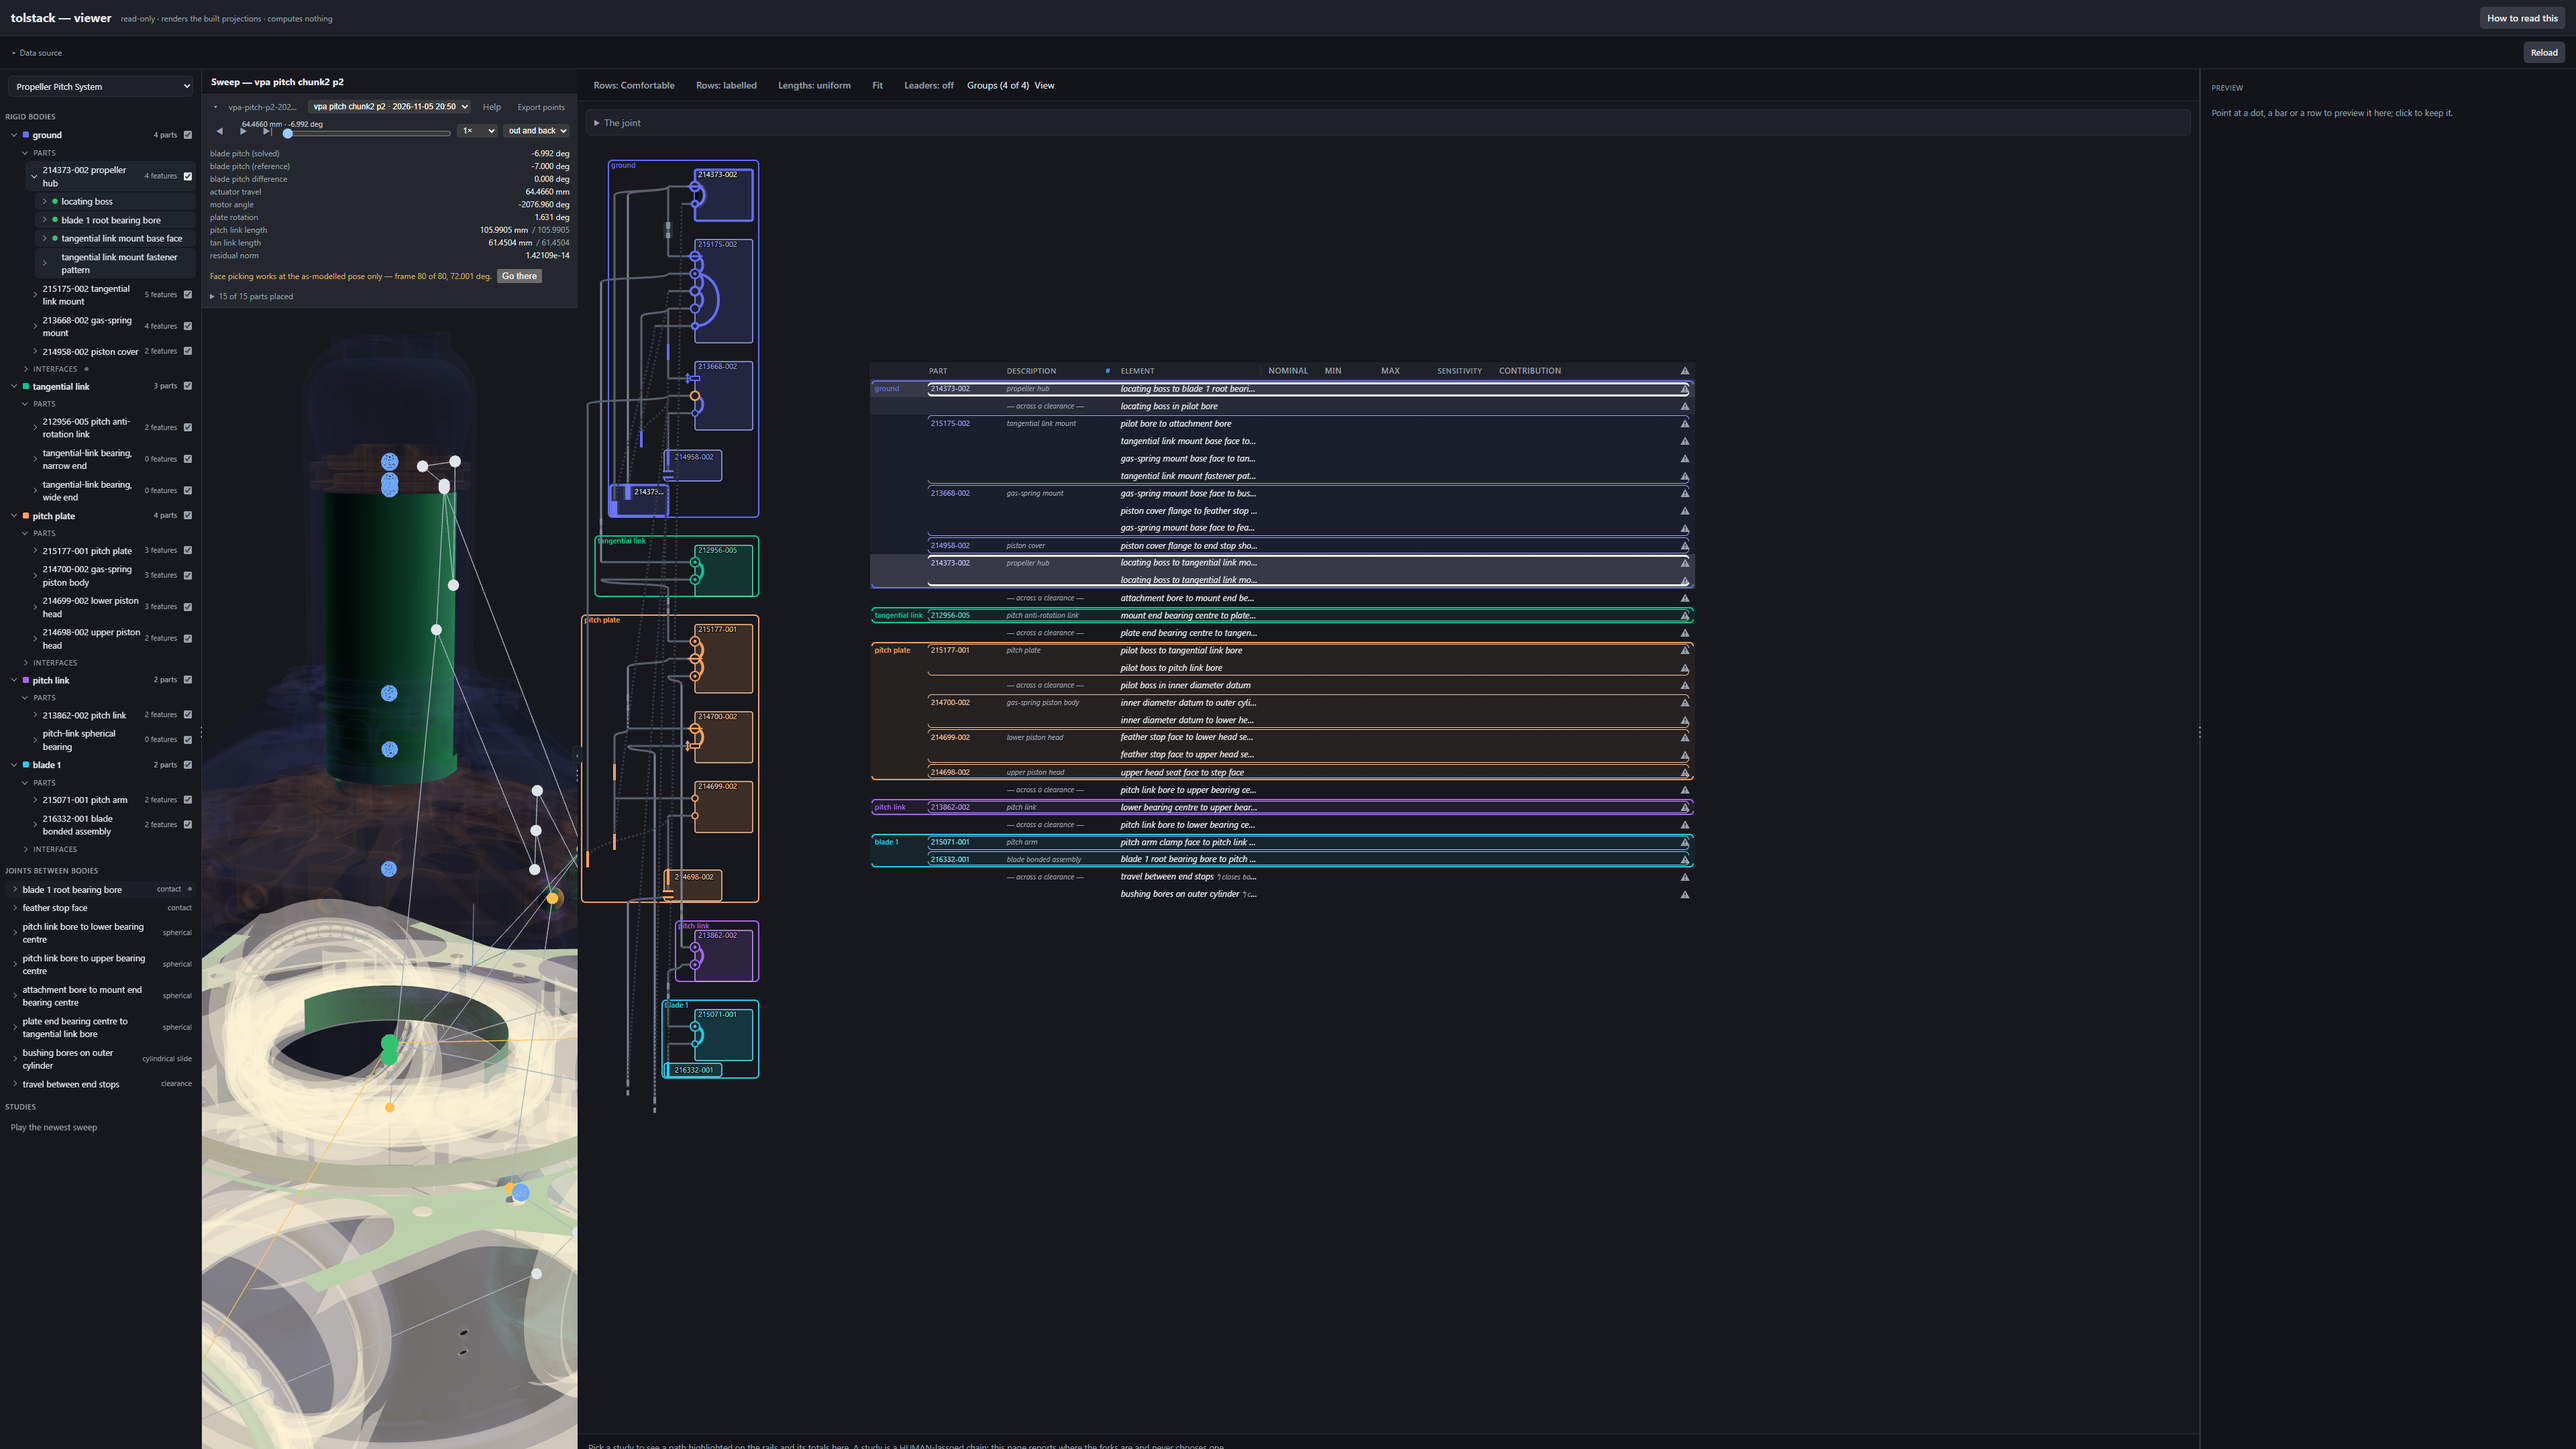
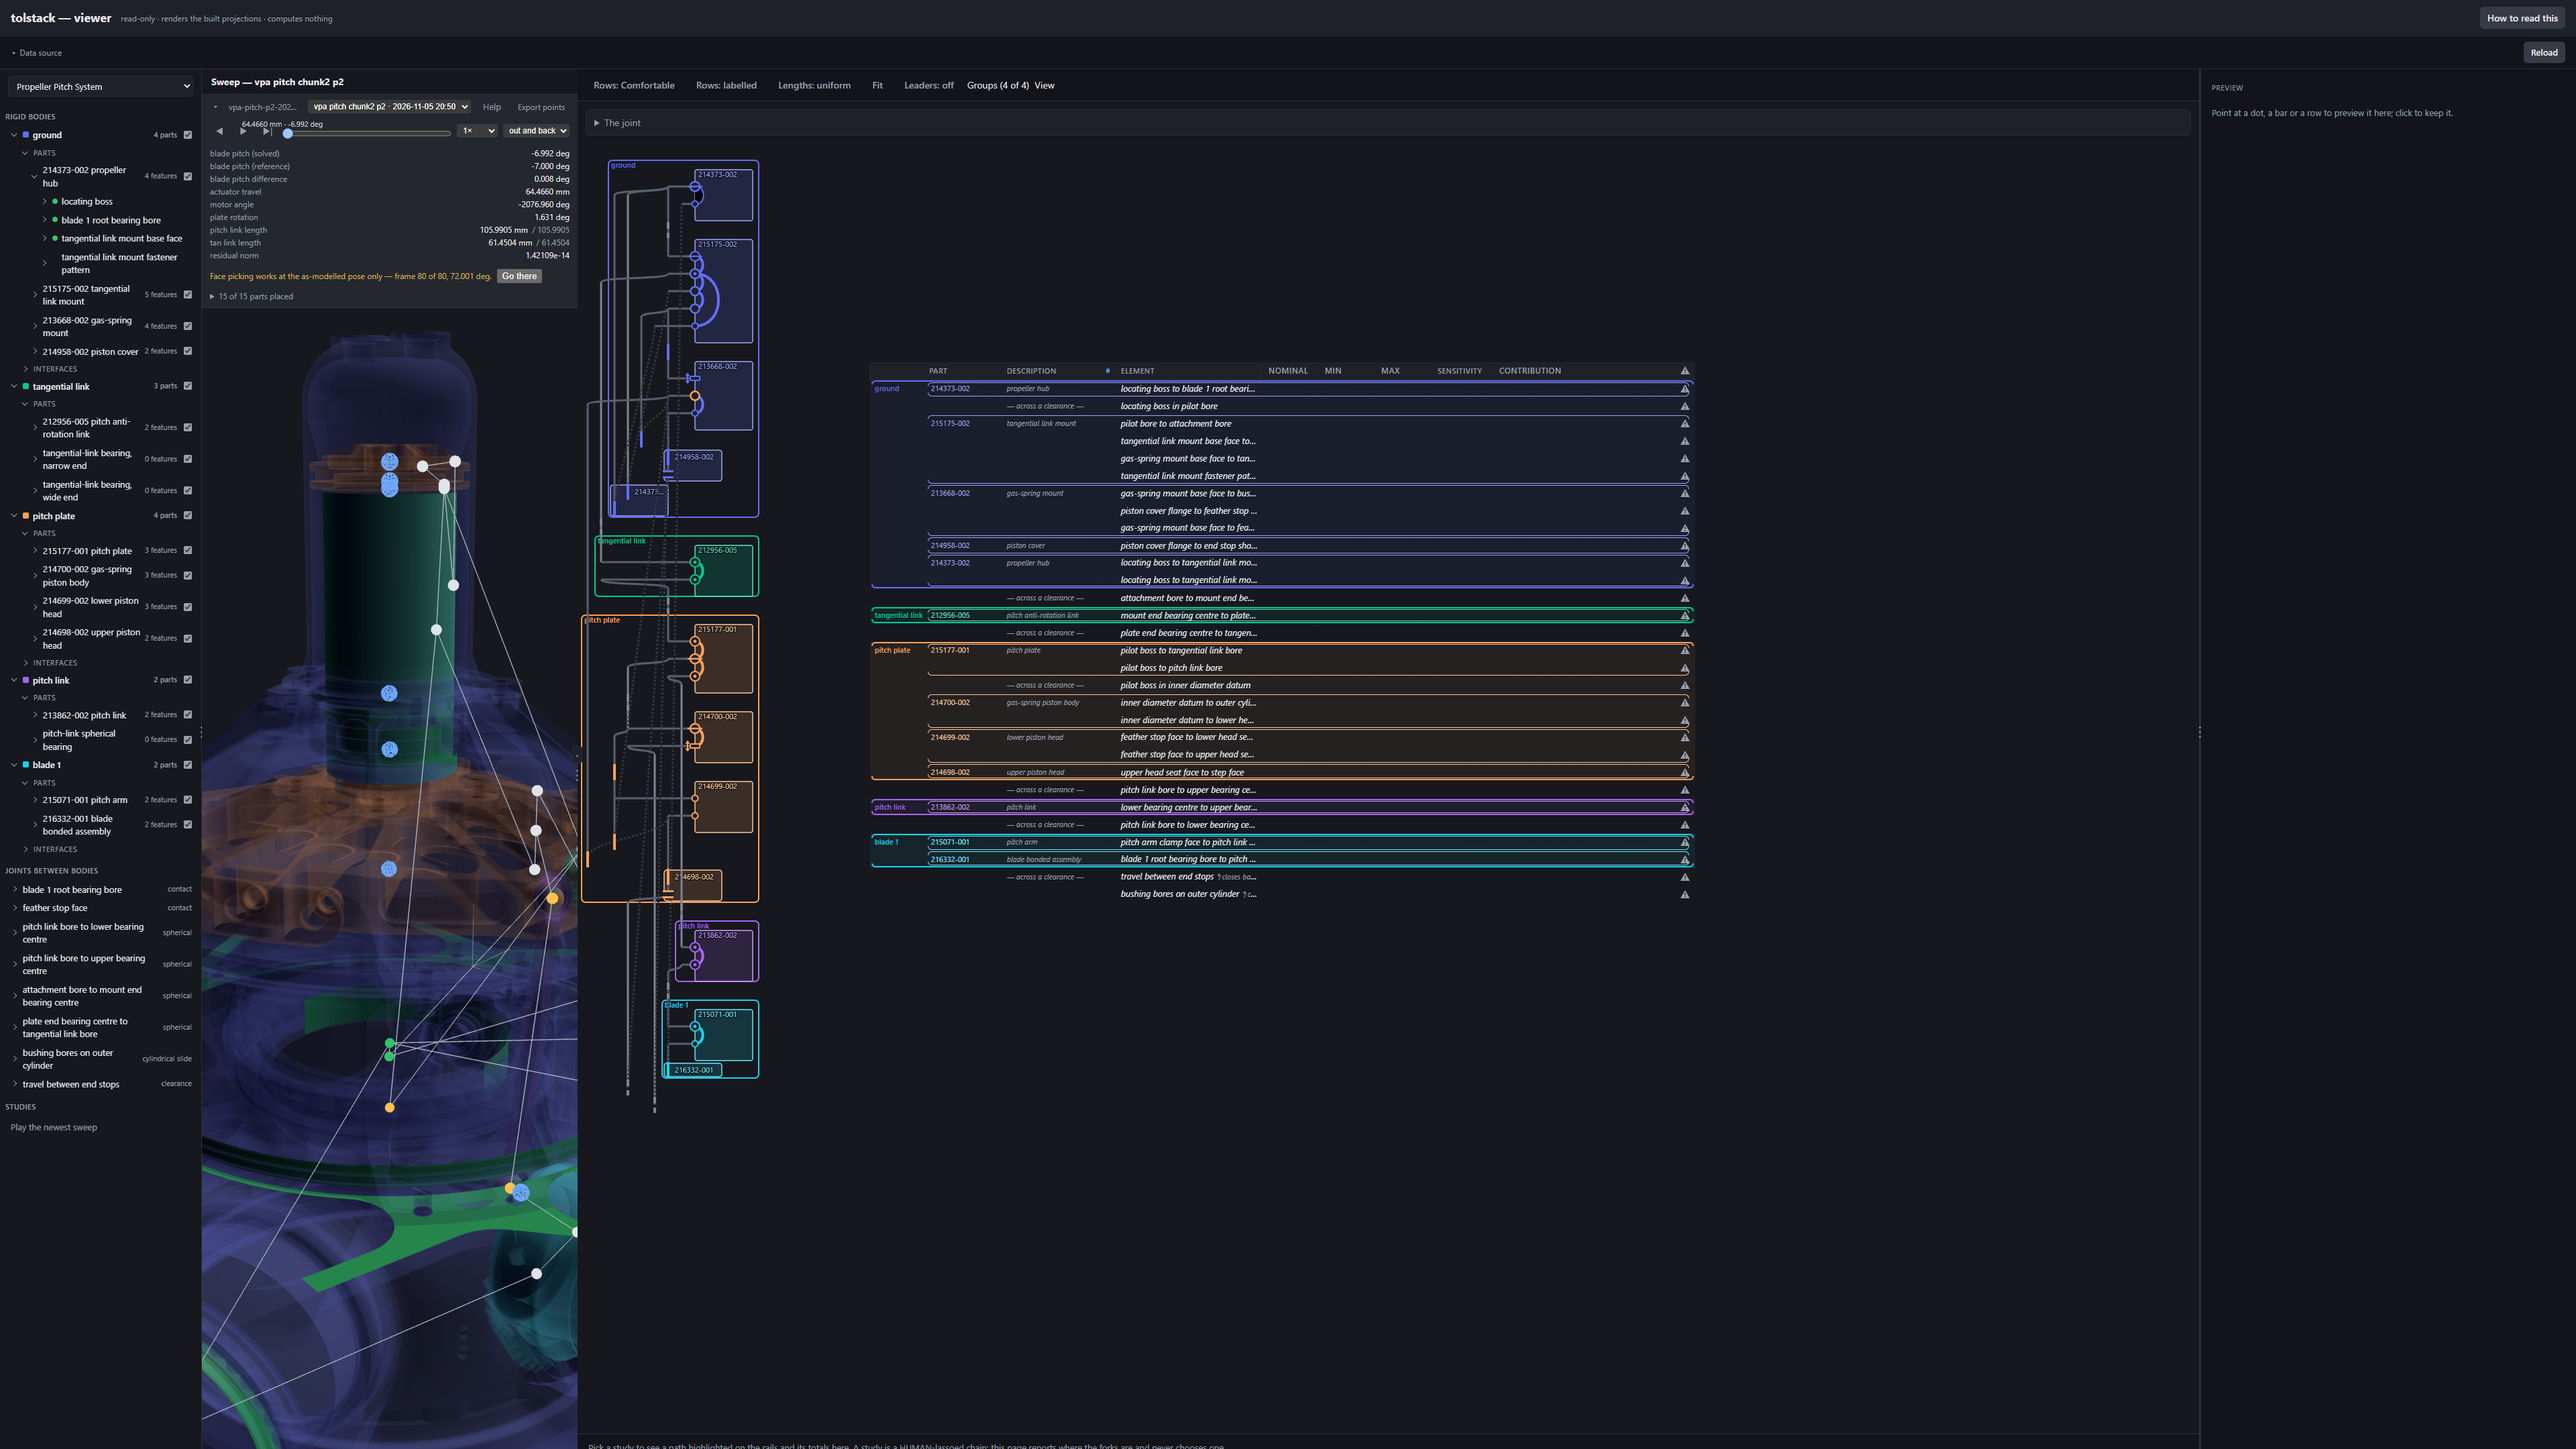
The pane suite's body-hover and bound-row checks read the light under the pointer and print a diagnosis when they fail

diff --git a/docs/sessions/lessons/LESSONS_20261112_hover_and_select_light_the_same_things_on_all_four_surfaces_and_nothing_goes_opaque.md b/docs/sessions/lessons/LESSONS_20261112_hover_and_select_light_the_same_things_on_all_four_surfaces_and_nothing_goes_opaque.md
@@ -32,4 +32,149 @@ Written as the work landed; the table, the shots and the suite record are last.
   and `applyLooks` snapshots and restores looks in a scene nothing owns at
   rest.
 
-(The rest of this lesson follows below as the session closes.)
+## Decisions not in the handoff
+
+- **What "touching" is, per kind.** The handoff gave two examples (a part:
+  the interfaces to its neighbours and their rows; a feature: the interface
+  it is an end of and the feature across). I completed the table so every
+  kind has one answer, and the resolver's comment carries it: a body touches
+  the joints to other bodies, their interfaces and far features; a feature
+  also touches the dimensions that end at it (otherwise a hovered node lit
+  nothing in the grid, which has no node rows); a dimension touches the
+  interfaces at its two ends; an interface its joint and the dimensions
+  arriving at its features; a joint the two parts it joins. A joint belongs
+  to the touching tier of a part and a feature because its row is the fold
+  the interface rows sit under.
+- **Neighbour parts go faint, not ghost, on a part hover.** Rule 5 says
+  everything the hover is not about goes faint, and a part's touching tier
+  is interfaces, not parts; so the mount is faint while the hub is hovered.
+  A joint hover is the one hover whose touching tier holds parts, and there
+  the two parts ghost. The 3D "near" (ghost) tier therefore exists for a
+  joint hover and an armed pick.
+- **Where a touching feature is revealed.** Under the lit interface it is an
+  end of (the fold `i:<interface>`), never by opening the part across the
+  joint: a part selected opens its own features and the interfaces to its
+  neighbours, with the far feature as that interface's end row. An interface
+  or a joint selected reveals its own ends under itself, where the reader is
+  looking; a part's or a body's own features under their parts
+  (`VA.navRevealPaths` takes the entity for that one distinction).
+- **The scroll on select is minimal and never costs the own row.** The
+  selected entity's own row first, then the lit rows in column order: the
+  first one off screen is brought in with the smallest scroll, and if that
+  takes the own row off screen the scroll is undone. A click on a row already
+  on screen whose lit rows are all on screen moves nothing (Jeff, 2026-11-05
+  and 2026-11-10, on the column yanking).
+- **A rail is no element.** Hovering a rail lights nothing and the whole
+  rail-leg glow is gone with it; the handoff decided it for parts and
+  bodies, and the one lighter cannot keep a leg for edges without a second
+  rule. Filed `ISSUE_20261112_the_rail_leg_glow_left_with_the_two_tier_light.md`
+  (strategy) in case tracing a leg is wanted back as a third thing hover
+  says.
+- **Seam leaders light from the own tier only.** The DAG-to-3D leaders are a
+  node's; lighting them for the touching tier fanned leaders out from the far
+  ends of a hovered dimension's gaps, which the seam suite caught.
+- **The selected edge still posts `highlight` while a run is loaded**, beside
+  `light select`. Kept so the kinematic page's selected-edge behaviour and
+  the pane's own rail tint are unchanged; filed as a duplication,
+  `ISSUE_20261112_a_selected_edge_reaches_the_pane_twice_as_highlight_and_as_light.md`.
+- **A grid bracket's caps are the control; its label is lit but inert.** The
+  label lies over the first row's PART cell, which is that row's click: with
+  the label clickable, a row click selected the part (the seam suite's
+  row-click check found it). The DAG's part NAME is a control, since it sits
+  in the container's own margin.
+- **A part that arrives takes its look at once** (`onPartLoaded` runs
+  `applyLooks`). A mesh joined the scene solid and stayed so until the next
+  sweep frame; in a paused sweep that was for as long as the pause, and the
+  3D-pane suite read an opaque part under a hover. In scope under rule 5.
+- **The `hover part|body|feature` verbs stay in the pane** for its own rail
+  rows; the page no longer posts them. `hover face` is still posted from a
+  feature body's bound line, and that line's hover is now the feature's hover
+  too (the one hover lights the feature on every surface while the face is
+  washed).
+
+## Stores and message dedupes, by name
+
+Gone from the page (`apps/viewer/topology_app.js`): `paneHoverPosted` and
+`paneHoverCommand` (the `hover part|body|feature` post), `endOfFeature`,
+`endAtNode` and `sceneSubjects` (what that post needed), `revealNavRow` and
+the feature-id form of `revealPending`. Gone from the DAG
+(`apps/viewer/views/topology.js`): the pane's own lighting in `setHot`
+(it tells the page; a bare render with no page lights locally), and
+`VA.lightTopoKeys`'s "the pane's pointer wins" refusal. Gone from the pane:
+`sweep.washAction` (now `state.washAction`, both modes).
+
+Remaining dedupes on the page: `paneLightPosted` (the `light` word last
+posted; reset on `annotate:tree` and `annotate:state`), `paneHighlightPosted`
+(the selected edge's `highlight`), `sceneSelectPosted`, `sceneModelPosted`,
+`sceneVisibilityPosted`, `sceneFilterPosted`, `partScopePosted`,
+`panePosePosted`, `paneFollowed`, `seamScrolledTo`, `sceneTreeSelected`,
+`sceneInspectHeld`, `hoverSource`, `paneHoverTimer` (the one hover debounce)
+and `revealPending` (now a flag: one reveal-and-scroll per selection change).
+Remaining stores in the pane: `state.light` (the page's light, parsed),
+`state.washAction`, `state.lookRestore` (looks before an action in a scene
+nothing owns at rest), `sweep.inspect` and `model.selected` (the 2026-11-11
+lesson's two), `sweep.focus`, `sweep.highlightAction`.
+
+## For the fixed-layout handoff: the reveal and the scroll
+
+- `setSelected` opens folds by writing `state.navOpen[key] = true` for every
+  key in `VA.navRevealPaths(model, light, entity)`; the reader's later fold
+  of any of them wins again (the same `navOpen`).
+- The scroll is `revealLitRows`, run from `renderNav` after the paint that
+  opened the folds, once per selection change (`revealPending`). It reads
+  `#navtree`'s own box and `scrollTop`, so a column that becomes a fixed,
+  independently scrolling pane needs nothing new; a column that scrolls with
+  the document would need the document's scroll instead. It never scrolls the
+  page.
+- A selection made in the column, the DAG, the grid or the scene is one
+  path; the 2026-11-10 "never on a click in the column itself" rule became
+  "never at the cost of the own row leaving the screen", which is what the
+  yank was.
+- `VA.lightNavTree` marks closed folds (`--holds`, `--holds-touching`) by
+  `data-nav-fold`, which every fold row carries (body, group, part, joint,
+  interface). A layout that collapses groups differently only has to keep
+  that attribute.
+
+## The table, re-filled from the page
+
+End-stop model v2, the P2 sweep loaded from the Studies row (and the same walk
+with no sweep, `--bind`), read off the page by
+`tests/debug_light_on_four_surfaces_20261112.mjs` at 3840×2160 and 5120×2160
+(the probe prints every surface beside each shot; the numbers below are its).
+H = hover, S = select. "own / touching" are the two tiers. The scene column
+names the looks read off the scene: every drawn part's opacity was 0.22
+(ghost) or 0.07 (faint) in every shot; **none was 1**.
+
+| entity (how) | left tree | 3D | DAG | grid |
+|---|---|---|---|---|
+| body `base` (S from tree) | own: the body, its 4 parts, their 15 features, the 3 joints inside it and their interfaces; touching: the 5 joints to other bodies, their interfaces, the far features (26 rows strong, 10 faint); every fold on the way opened | select layer: 4 part glows + 4 bound faces, a touching layer of 2 faces; its 4 parts ghost 0.22 (+2 neighbours' ghost through the touching faces), 9 faint 0.07 | the body field and its 4 part containers accented; 11 dots and 12 bars accented, 3 dots touched | 12 rows selected (the base parts' dimensions and the pilot gap), 3 touched (the gaps to other bodies); the body's and its parts' brackets accented |
+| part `hub` (H from tree; also H from its grid bracket) | own: hub row + 4 features strong; touching: the 4 interfaces to the blade root and the mount, their joint, the 3 far features faint; closed folds marked (`Interfaces` group, `blade 1 root bearing bore`) | hover layer: 1 part glow + 3 bound faces (face 0.6 over part 0.22); hub ghost 0.22, every other part faint 0.07 | 4 dots and 3 bars strong, the pilot gap's dot and bar faint, the hub's container strong; no rail leg | **3 rows strong = `model.dimensionsOf("hub")` (3)**, 1 faint (the pilot gap); the hub's bracket lit |
+| part `hub` (S from tree; also from its DAG name) | 5 rows accented, 9 faint-accented (interfaces, joint, far features), the folds down to them opened | select layer: 1 glow + 3 faces (0.55 over 0.18); hub ghost, rest faint | container, 4 dots and 3 bars accented; the pilot dot and bar touched | 3 rows selected, the pilot gap row touched; the bracket accented |
+| feature `locating boss` (S from Parts) | its row accented and open to `bound · face 144`; touching: the hub-mount joint, the pilot interface, the pilot bore across it — the Interfaces group, the joint and the interface opened, the interface row on screen | select layer: 1 face (face 144 on the hub), hub ghost, rest faint | its dot accented, the pilot bore's dot touched | 4 rows touched: its 3 dimensions and the pilot gap; no row of its own (a node has none) |
+| bound face (H on the body's line) | its feature's row lit (the one hover) | the face washed in the pre-selection yellow, its part at rest | its feature's dot | its feature's dimensions faint |
+| interface `tangential link mount base face` (H from tree) | own: its row and its 2 end rows strong; touching: the hub-mount joint faint | hover layer: 1 face (the hub side's binding); hub ghost, rest faint | its dot strong; the 3 dimensions arriving at it faint bars | 0 own rows (a node has none), 3 faint: `hub_spindle_to_tan_link_mount_face`, `tan_link_mount_height`, `tan_link_mount_overall_height` |
+| interface `locating boss in pilot bore` (gap; H from grid) | its row and its 2 ends strong; the joint faint | hover layer: 1 face; hub ghost, rest faint; **no part solid** | its bar and 2 end dots strong; 4 bars faint | its row strong, 4 faint (the dimensions at its two ends) |
+| joint `hub and mount` (H from tree) | own: the joint, its 3 interfaces and their 6 end rows strong; touching: the hub and the mount rows faint | hover layer: 2 faces; hub and mount ghost, rest faint | 4 dots and the pilot gap's bar strong; the hub's and the mount's containers faint | the pilot gap's row strong |
+| dimension (H/S from grid) | its two end features' rows | the ends' bound faces overlaid | its bar and two dots | its row (selected: the accent; the interfaces at its ends touched) |
+
+Deliberately empty cells: a bound face has no element of its own on the DAG or
+the grid (it lights its feature there); a joint has no mark of its own on the
+DAG and no row in the grid (its interfaces are its marks and rows); a node
+interface has no grid row (the dimensions arriving at it are its rows, as
+touching). The DAG's part NAME and a part's or body's container border are the
+controls on that surface; a grid bracket's caps are, its label is lit only.
+
+Bind mode (`--bind`): every row of the table reads the same -- the light's
+layers, the looks and the lit rows are identical with no sweep loaded.
+
+## Shots (`docs/sessions/lessons/shots/hover_and_select_light_the_same_things_on_all_four_surfaces_and_nothing_goes_opaque/`)
+
+`sweep_<nn>_<what>_3840.png` and `_5120.png`, `bind_<nn>_<what>_bind_3840.png`,
+taken by the probe above; each one looked at before this was written. The
+3D pane in every shot is the narrow strip under the sweep bar the 2026-11-12
+pane lesson filed (`ISSUE_20261112_at_3840_the_3d_pane_is_a_narrow_strip_under_the_sweep_bar.md`);
+the looks are read off the scene, not the pixels. `hover_to_select_filmstrip.png`
+is the hub hovered in the tree then clicked, eight frames 150 ms of page
+time apart, with its probe JSON beside it.
+
+(Witness counts and the suite record follow as the session closes.)
